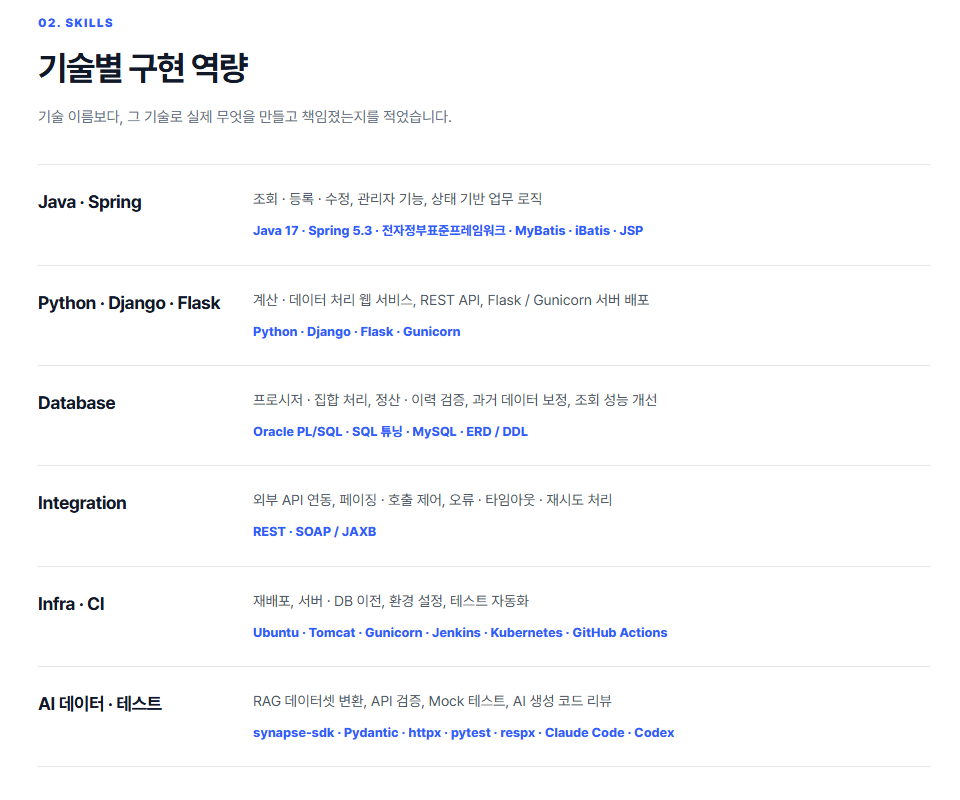
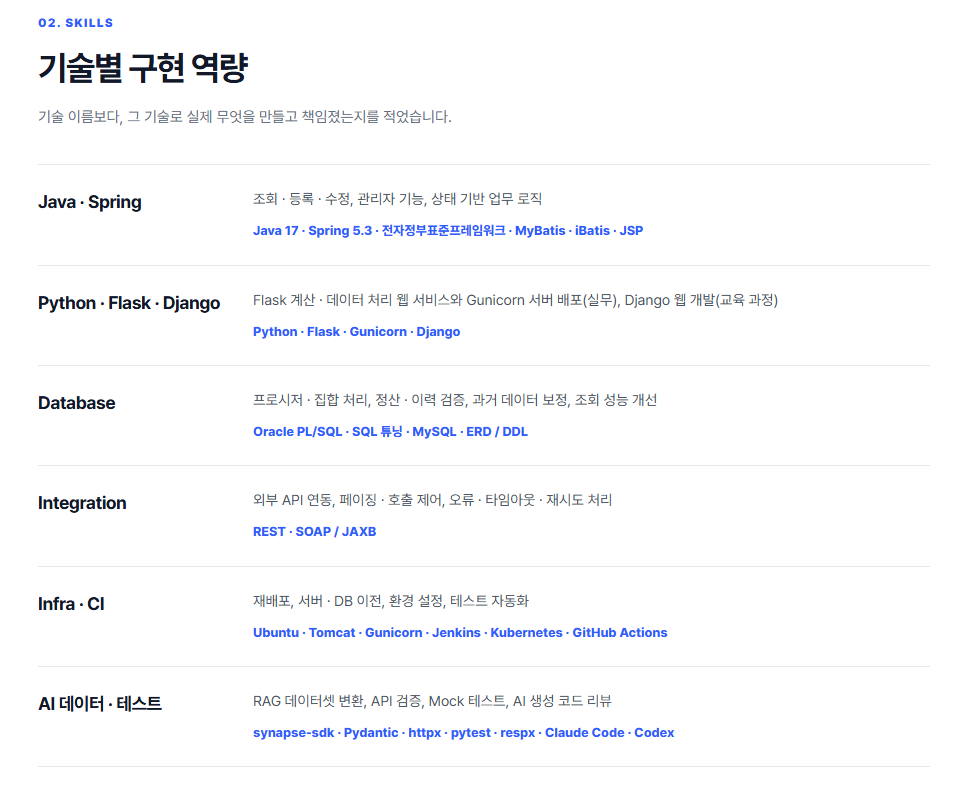
docs: 한밭대 플랫폼은 Flask, Django는 교육 과정으로 표기 정정

Changed region(s): [[0.125, 0.3438, 0.8125, 0.4375]]

diff --git a/index.html b/index.html
@@ -90,7 +90,7 @@
 
       <section id="skills"><p class="overline">02. SKILLS</p><h2 class="section-title">기술별 구현 역량</h2><p class="section-intro">기술 이름보다, 그 기술로 실제 무엇을 만들고 책임졌는지를 적었습니다.</p>
         <div class="skill-row"><h3>Java · Spring</h3><p>조회 · 등록 · 수정, 관리자 기능, 상태 기반 업무 로직<span class="tech">Java 17 · Spring 5.3 · 전자정부표준프레임워크 · MyBatis · iBatis · JSP</span></p></div>
-        <div class="skill-row"><h3>Python · Django · Flask</h3><p>계산 · 데이터 처리 웹 서비스, REST API, Flask / Gunicorn 서버 배포<span class="tech">Python · Django · Flask · Gunicorn</span></p></div>
+        <div class="skill-row"><h3>Python · Flask · Django</h3><p>Flask 계산 · 데이터 처리 웹 서비스와 Gunicorn 서버 배포(실무), Django 웹 개발(교육 과정)<span class="tech">Python · Flask · Gunicorn · Django</span></p></div>
         <div class="skill-row"><h3>Database</h3><p>프로시저 · 집합 처리, 정산 · 이력 검증, 과거 데이터 보정, 조회 성능 개선<span class="tech">Oracle PL/SQL · SQL 튜닝 · MySQL · ERD / DDL</span></p></div>
         <div class="skill-row"><h3>Integration</h3><p>외부 API 연동, 페이징 · 호출 제어, 오류 · 타임아웃 · 재시도 처리<span class="tech">REST · SOAP / JAXB</span></p></div>
         <div class="skill-row"><h3>Infra · CI</h3><p>재배포, 서버 · DB 이전, 환경 설정, 테스트 자동화<span class="tech">Ubuntu · Tomcat · Gunicorn · Jenkins · Kubernetes · GitHub Actions</span></p></div>
@@ -134,7 +134,7 @@
 
         <article class="case"><div class="case-no">04</div><div>
           <h3>Research Engineering Calculation Platform</h3><p class="sub">환경부 R&amp;D 연구진의 C# 계산 프로그램을 Python 웹 서비스로 이식한 연구용 계산 플랫폼</p>
-          <div class="meta"><span><b>기간</b>2023.11 – 2023.12</span><span><b>기술</b>Python · Django · Flask · MySQL · JavaScript · Ubuntu · Gunicorn</span><span><b>운영</b>대학 서버 · Linux · Flask/Gunicorn WSGI</span></div>
+          <div class="meta"><span><b>기간</b>2023.11 – 2023.12</span><span><b>기술</b>Python · Flask · MySQL · JavaScript · Ubuntu · Gunicorn</span><span><b>운영</b>대학 서버 · Linux · Flask/Gunicorn WSGI</span></div>
           <dl class="case-detail">
             <dt>역할</dt><dd>전임자 퇴사 후 계산 로직 분석 · 이식, 웹 기능 개발, 서버 · DB 이전, 배포 · 운영 문서화</dd>
             <dt>문제</dt><dd>같은 입력에서 C#과 Python의 계산 결과가 다름</dd>

diff --git a/README.md b/README.md
@@ -44,7 +44,7 @@ AI 도구는 구현과 탐색의 생산성을 높이는 데 쓰되, **확보한 
 | 영역 | 기술 | 실제로 한 일 |
 |---|---|---|
 | **Java · Spring** | Java 17, Spring 5.3, 전자정부표준프레임워크, MyBatis, iBatis, JSP | 조회 · 등록 · 수정, 관리자 기능, 상태 기반 업무 로직 |
-| **Python** | Python, Django, Flask, Gunicorn | 계산 · 데이터 처리 웹 서비스, REST API, Flask/Gunicorn 서버 배포 |
+| **Python** | Python, Flask, Gunicorn, Django | Flask 계산 · 데이터 처리 웹 서비스와 Gunicorn 서버 배포(실무), Django 웹 개발(교육 과정) |
 | **Database** | Oracle PL/SQL, SQL 튜닝, MySQL, ERD/DDL | 프로시저 · 집합 처리, 정산 · 이력 검증, 과거 데이터 보정 |
 | **Integration** | REST, SOAP/JAXB | 외부 API 연동, 페이징 · 호출 제어, 오류 · 타임아웃 · 재시도 처리 |
 | **Infra · CI** | Ubuntu, Tomcat, Jenkins, Kubernetes, GitHub Actions | 재배포, 서버 · DB 이전, 환경 설정, CI |
@@ -74,7 +74,7 @@ AI 도구는 구현과 탐색의 생산성을 높이는 데 쓰되, **확보한 
 <sub>Java · Spring Boot · Thymeleaf · Oracle · REST · Tomcat</sub></td></tr>
 <tr><td><b>Research Engineering Calculation Platform</b><br><sub>2023.11 – 2023.12</sub></td>
 <td>연구진의 C# 계산 프로그램을 Python 웹 서비스로 이식, 결과 대조로 이식 오류 수정, 대학 서버 이전 · Flask/Gunicorn 배포 문서화<br>
-<sub>Python · Django · Flask · MySQL · Ubuntu · Gunicorn</sub></td></tr>
+<sub>Python · Flask · MySQL · Ubuntu · Gunicorn</sub></td></tr>
 </table>
 
 ### 홍익대학교 · 빅데이터 분석 기반 비즈니스 개발자 양성과정 `2023.04 – 2023.11`
